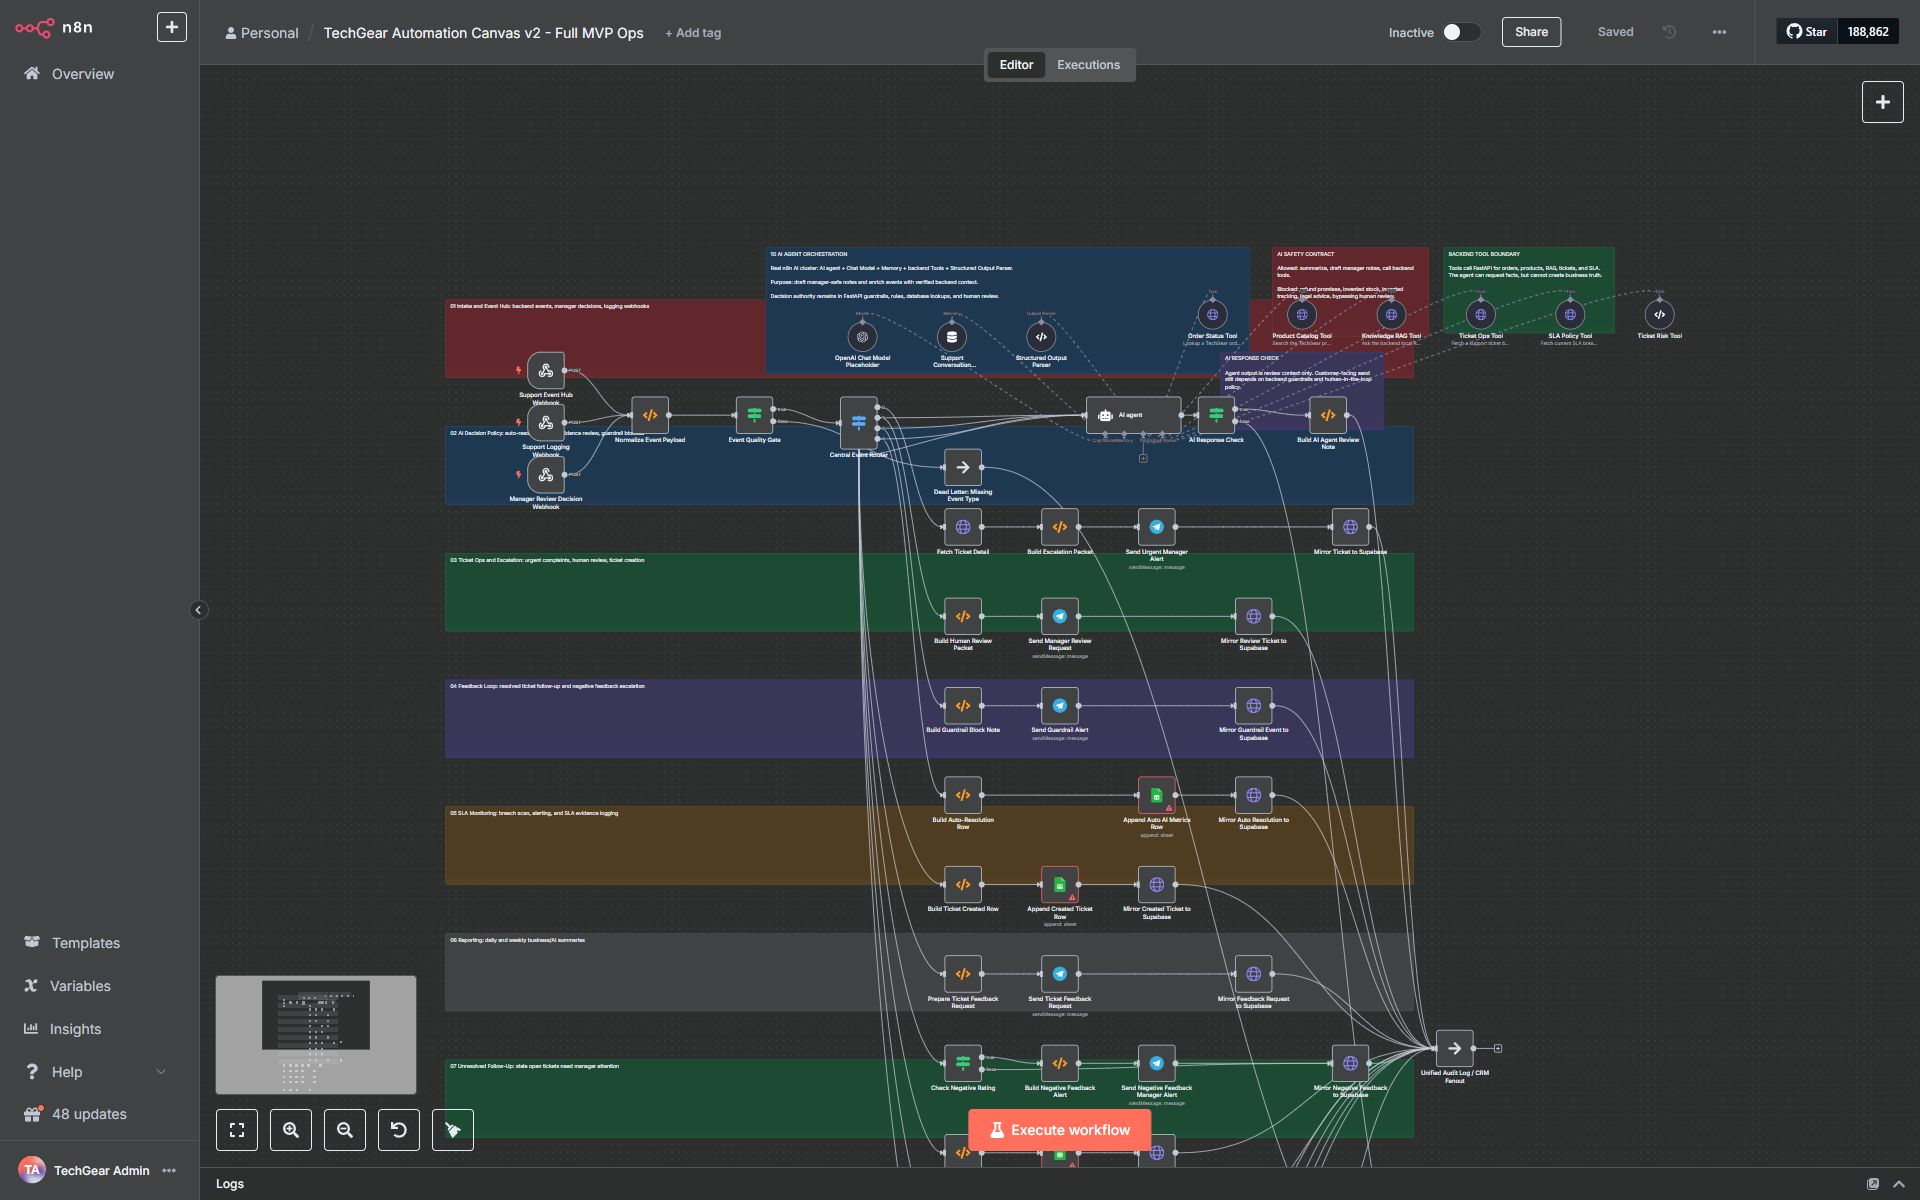
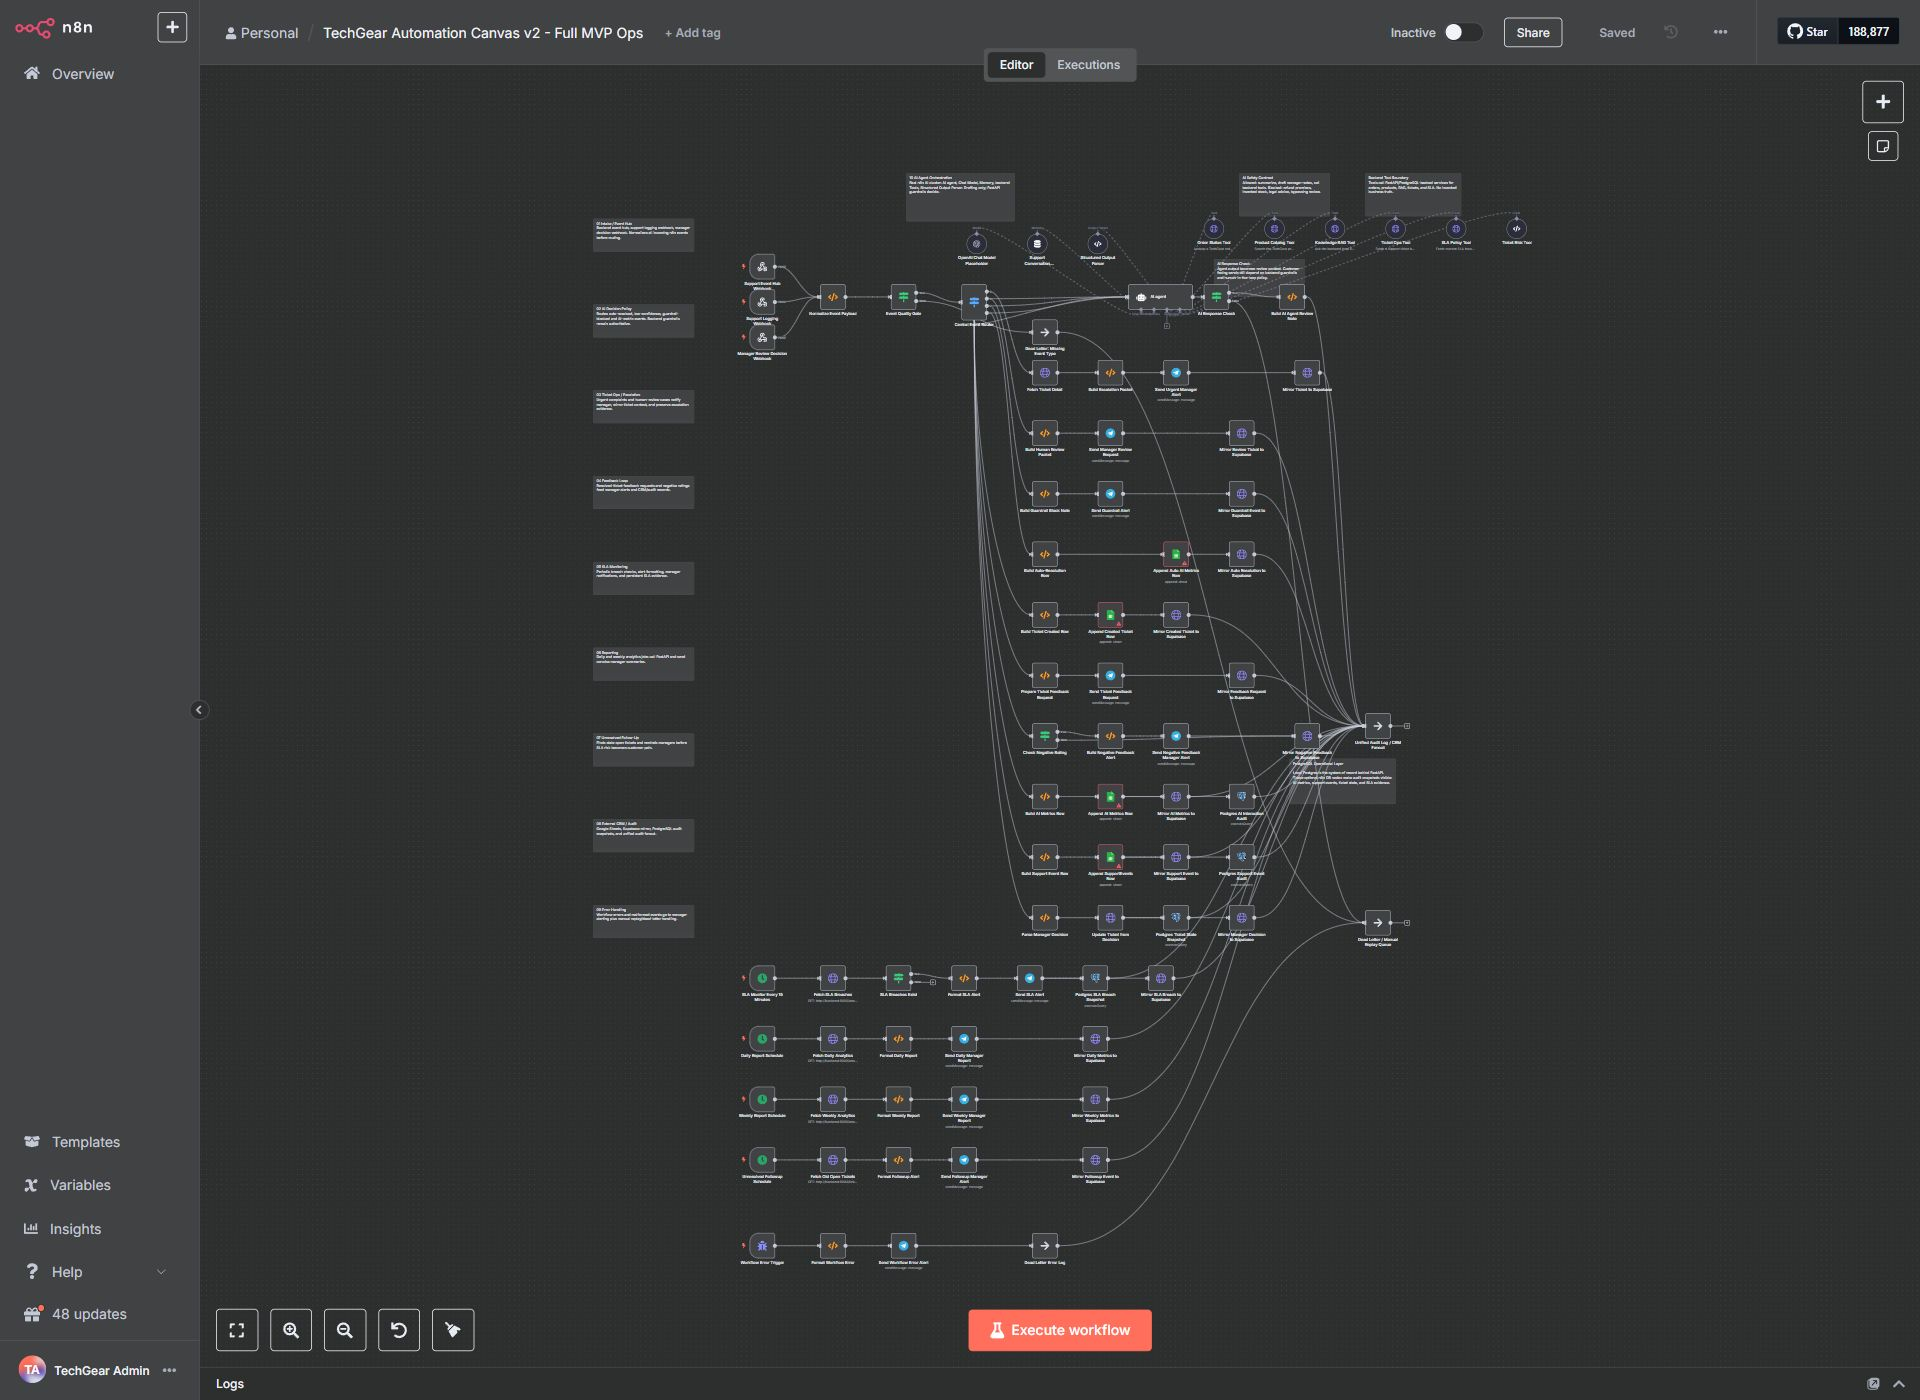
Add PostgreSQL visibility to n8n canvas

diff --git a/docs/n8n_setup.md b/docs/n8n_setup.md
@@ -10,6 +10,7 @@ Credential placeholders:
 - `TechGear Google Sheets Placeholder`
 - `TechGear Supabase Placeholder`
 - `TechGear OpenAI Placeholder`
+- `TechGear PostgreSQL Placeholder`
 
 Replace placeholders with real credentials in n8n UI. The AI Agent/Chat Model section is optional and should stay disabled or unexecuted until an LLM credential is configured. Do not commit exported workflows containing real credentials.
 
@@ -29,6 +30,6 @@ Optional environment values:
 - `SUPABASE_URL`
 - `SUPABASE_SERVICE_ROLE_KEY`
 
-Google Sheets, Supabase, and the n8n Chat Model are optional sinks/drafting helpers. If they are not configured, the local backend and mock/demo flows still work.
+Google Sheets, Supabase, PostgreSQL n8n nodes, and the n8n Chat Model are optional sinks/drafting helpers. If they are not configured, the local backend and mock/demo flows still work. PostgreSQL nodes should use the same local database values from `.env`, but exported workflows must keep only placeholder credential names.
 
 n8n Cloud can use the same workflows after changing backend URLs to a public HTTPS endpoint.

diff --git a/README.md b/README.md
@@ -82,7 +82,7 @@ Import workflows from `n8n/workflows/`. For portfolio review, import `techgear_a
 
 ## Configured n8n MVP Canvas v2
 
-The screenshot below shows the configured n8n editor canvas for the MVP. Backend webhooks, AI decision routing, AI Agent drafting with model/memory/tools, ticket operations, SLA jobs, feedback handling, Telegram manager alerts, Google Sheets logging, Supabase CRM mirror branches, and error handling are connected in one support automation workflow.
+The screenshot below shows the configured n8n editor canvas for the MVP. Backend webhooks, AI decision routing, AI Agent drafting with model/memory/tools, ticket operations, PostgreSQL audit snapshots, SLA jobs, feedback handling, Telegram manager alerts, Google Sheets logging, Supabase CRM mirror branches, and error handling are connected in one support automation workflow.
 
 ![TechGear Store n8n automation canvas with AI Agent layer](docs/assets/techgear-n8n-mvp-canvas-ai-agent.png)
 

diff --git a/docs/security.md b/docs/security.md
@@ -7,6 +7,7 @@ No real secrets are stored in this repository.
 - Telegram tokens, OpenAI keys, Google credentials, Supabase service keys, n8n passwords, service account JSON, and real chat IDs must be added manually outside git.
 - n8n workflows use placeholder credential names only.
 - The n8n AI Agent canvas uses `TechGear OpenAI Placeholder`; do not connect a real model credential in exported workflow JSON.
+- The n8n PostgreSQL nodes use `TechGear PostgreSQL Placeholder`; exported workflows must never include real database passwords.
 - Google Sheets and Supabase workflow nodes read IDs/URLs/keys from environment variables or n8n credentials; workflow exports must not contain real tokens.
 - Supabase is an optional CRM mirror, not the local source of truth. Use server-side credentials only in n8n or backend environments, never in browser-facing code.
 - Admin endpoints use `X-Admin-API-Key`, which is MVP-level local protection.

diff --git a/n8n/README.md b/n8n/README.md
@@ -10,6 +10,7 @@ The workflows intentionally use placeholder credential names:
 - `TechGear Google Sheets Placeholder`
 - `TechGear Supabase Placeholder`
 - `TechGear OpenAI Placeholder`
+- `TechGear PostgreSQL Placeholder`
 
 Replace them manually in the n8n UI after import. No real tokens or service account files are stored in this repository.
 